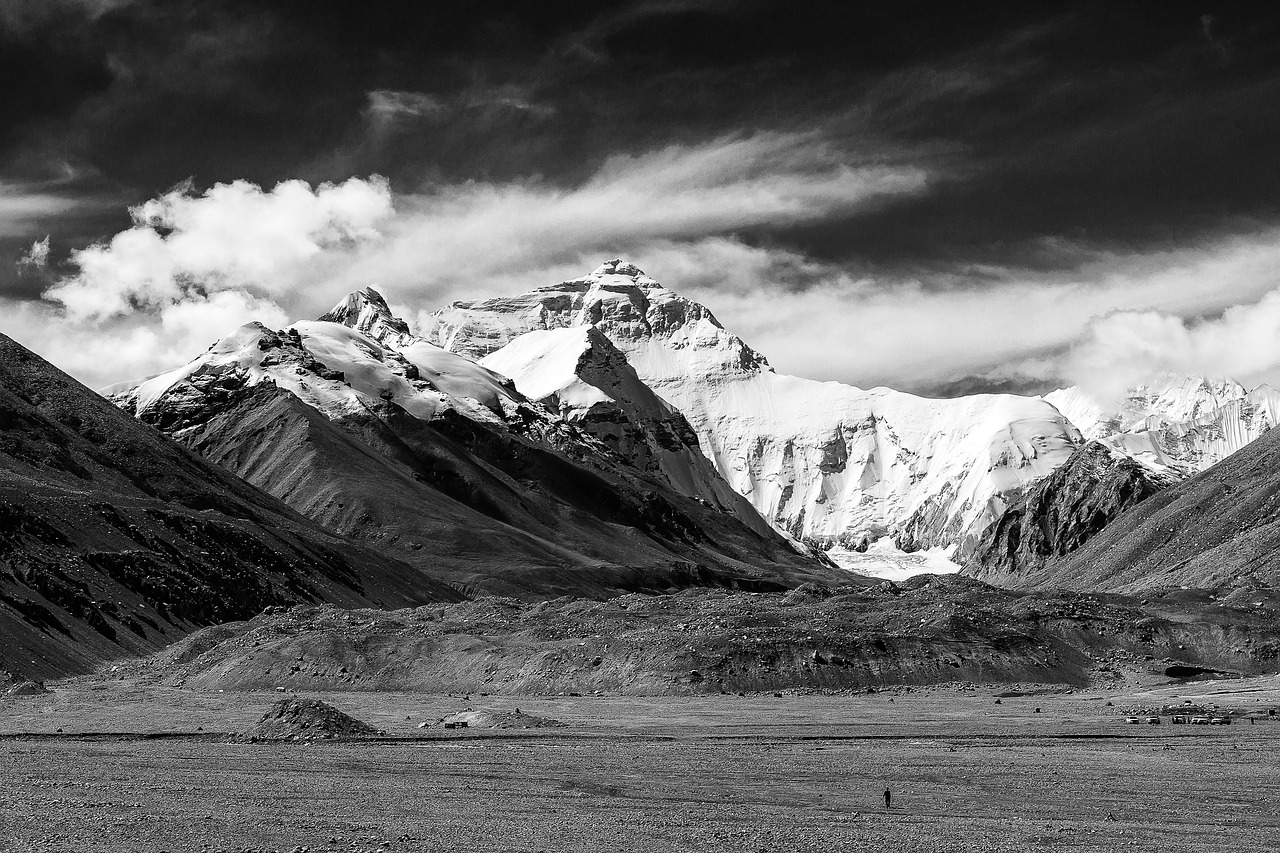
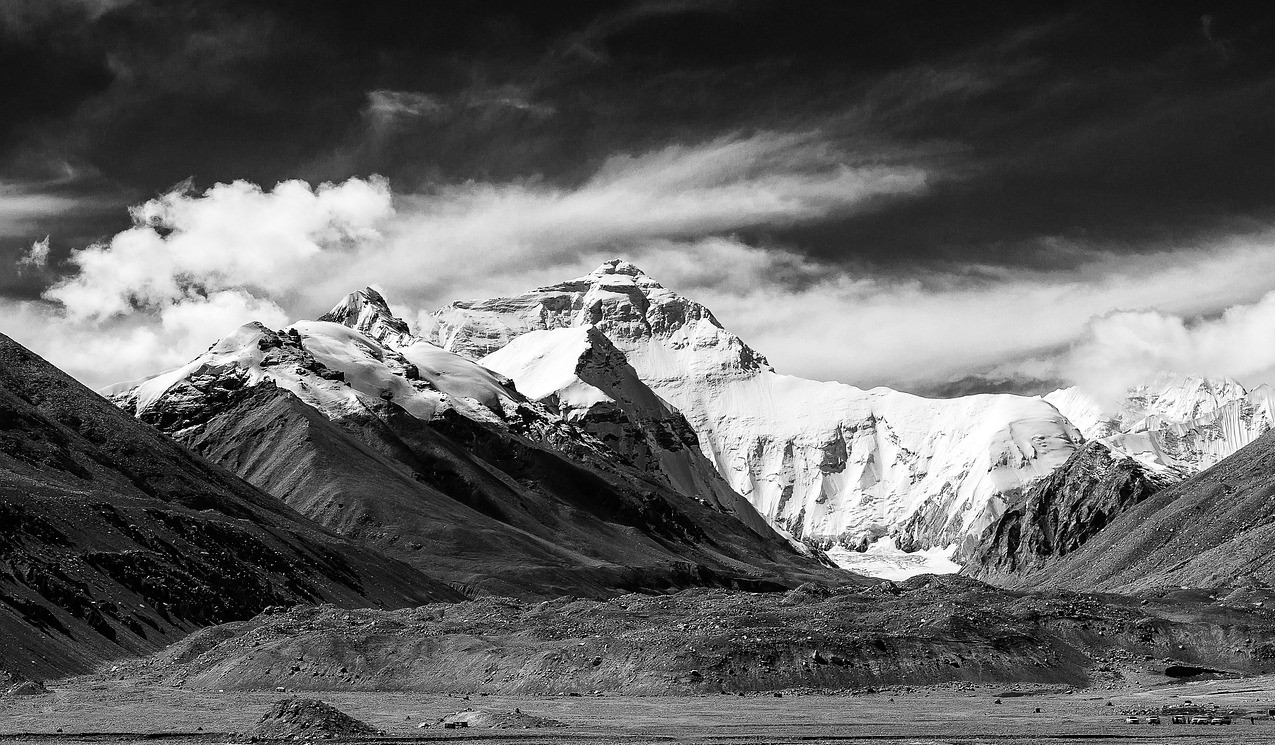
everest 3

diff --git a/_pages/splash_page.md b/_pages/splash_page.md
@@ -6,7 +6,7 @@ permalink: /
 header:
   overlay_color: "#000"
   overlay_filter: "0.5"
-  overlay_image: "/images/everest2.jpg"
+  overlay_image: "/images/everest.jpg"
   actions:
     - label: "Read On"
       url: "https://qzyu999.github.io/wang-zhan/learning/"
